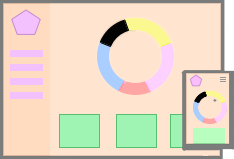
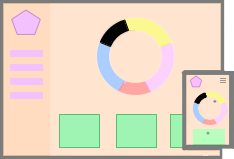
more edits

diff --git a/scss/main.css b/scss/main.css
@@ -119,7 +119,7 @@ body {
   /*==================================================================================FOOTER*/ }
   #home .banner {
     overflow: hidden;
-    background-image: url("../img/desk.jpeg");
+    background-image: url("../img/deskCompressed.jpeg");
     background-position: center center;
     background-repeat: no-repeat;
     background-size: cover; }
@@ -406,7 +406,7 @@ body {
         color: #F7DBA3;
         text-align: center;
         font-size: 25px;
-        margin: 40px 0 40px 0;
+        margin: 40px 0 20px 0;
         letter-spacing: 2px; }
       #home .technical .techTotal .code li {
         margin: 0 0 20px 0; }

diff --git a/scss/pages/_home.scss b/scss/pages/_home.scss
@@ -3,7 +3,7 @@
 /*==================================================================================BANNER*/
   .banner{
     overflow: hidden;
-     background-image: url("../img/desk.jpeg");
+     background-image: url("../img/deskCompressed.jpeg");
      background-position: center center;
      background-repeat: no-repeat;
      background-size: cover;
@@ -409,7 +409,7 @@
         color: #F7DBA3;
         text-align: center;
         font-size: 25px;
-        margin: 40px 0 40px 0;
+        margin: 40px 0 20px 0;
         letter-spacing: 2px;
       }
       .code{
